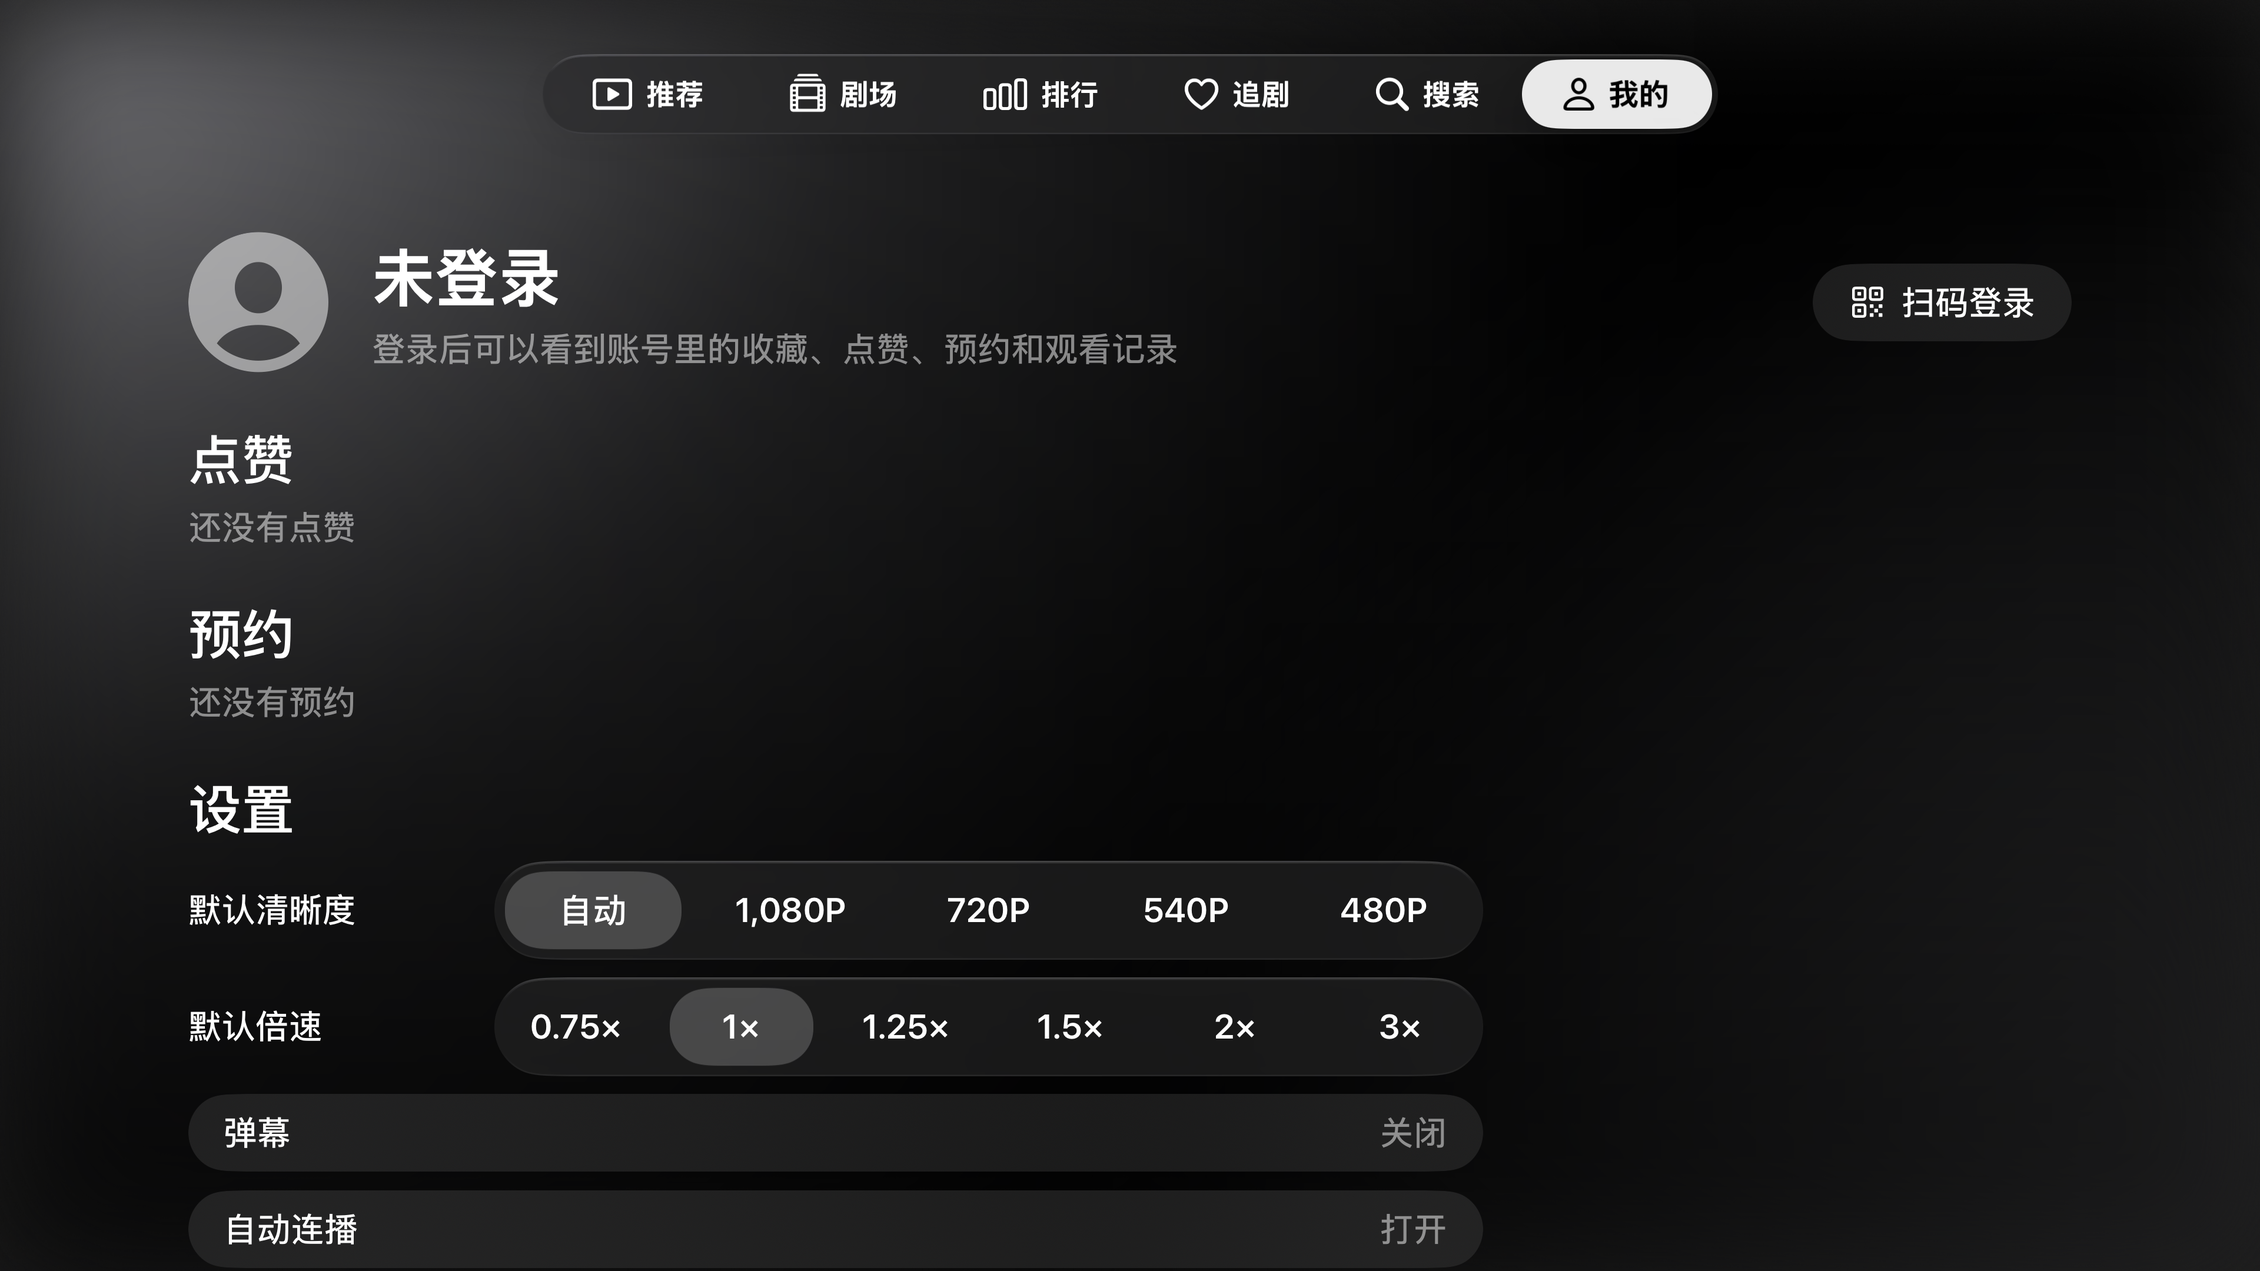
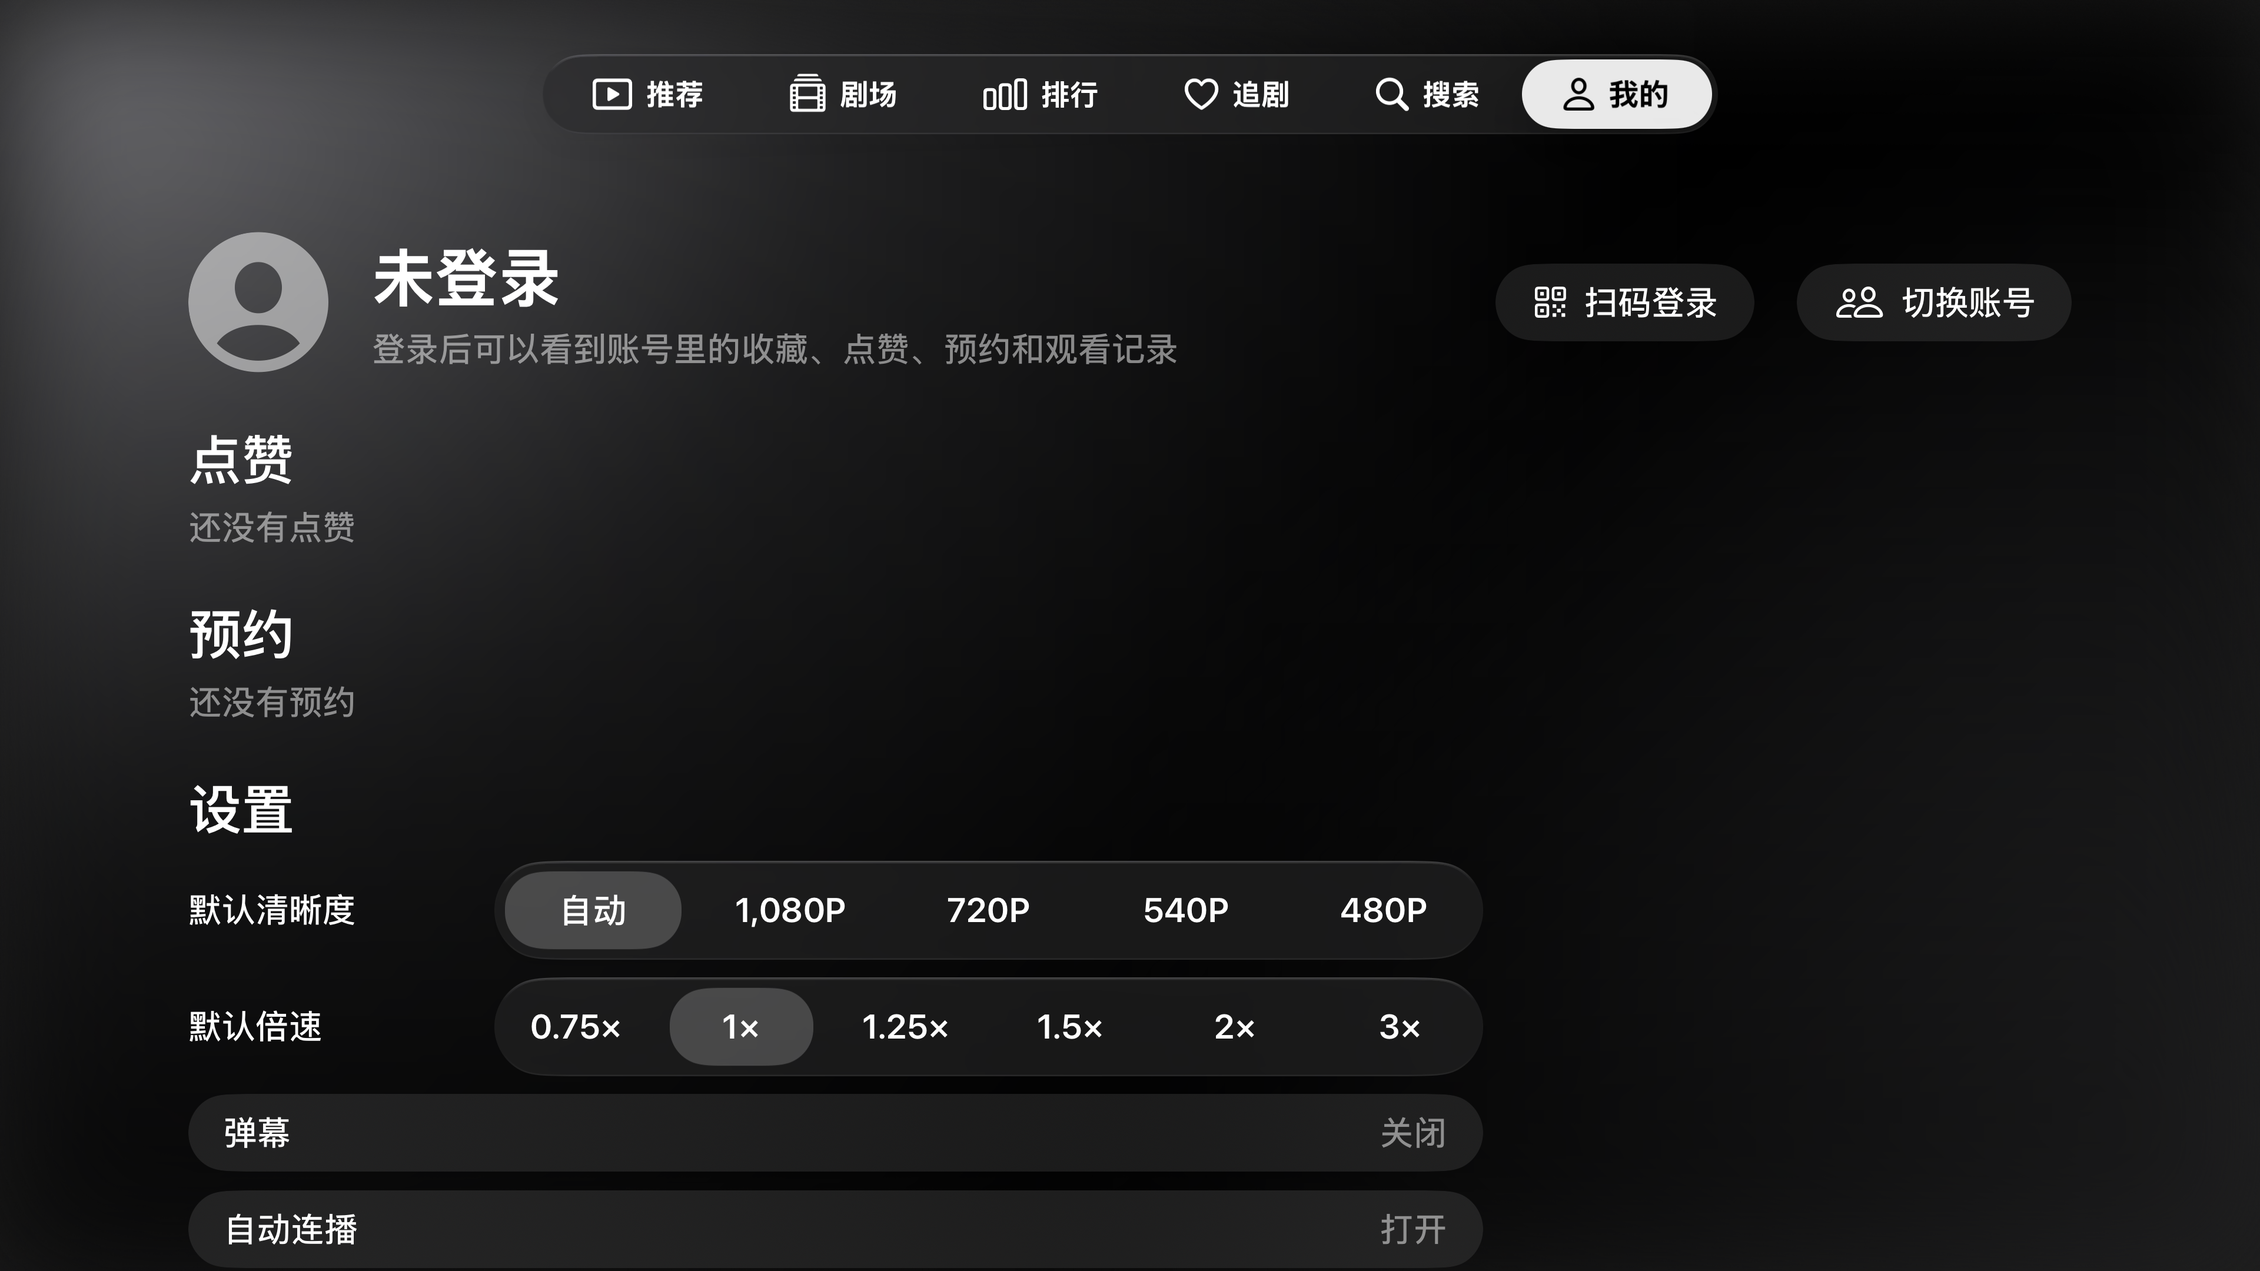
tvOS: account choice at launch and 切换账号
Andy asked for switching accounts on the TV, with a choice when the app opens.

- 选择账号 (AccountPickerPage): the accounts saved on this Apple TV (the shared AccountRoster) as
  a row of round pictures with names, like the system's user picker: the focused one grows, the
  most recently used takes the focus, the current one is marked. 添加账号 opens the QR sign-in
  (a sign-in joins the roster as current and goes on to 推荐); 不登录使用 carries on signed out
  (the saved accounts stay); a long press removes an account from this Apple TV only. Choosing one
  switches through AccountModel's sign-in steps (AccountRoster.switchTo) and goes to 推荐, which
  starts playing. Shown at launch when accounts are saved; with none the app goes straight to
  推荐. A saved login no longer there opens the QR sign-in.
- 我的: 切换账号 on the account card and in the settings brings the picker back.
- The roster's entry follows the account's picture and name once they are read.
- -HongguoRoute accounts opens the picker; sample runs fill it with three made-up accounts in
  memory (no login, no request); other sample runs start with an empty roster.
- 推荐 does not play under the picker or the sign-in page.

Checks: build-sim BUILD SUCCEEDED; xcodebuild test 34 passed (new: the most recent account has the
focus and choosing one goes to 推荐; 不登录使用; 添加账号 opens the sign-in and Back returns).
Screenshots: tvos/docs/screenshots/tv-c-accounts.png, tv-c-me.png.
[…]

Changed region(s): [[0.6562, 0.1861, 0.9062, 0.2792]]

diff --git a/tvos/App/Sources/Pages/AccountPickerPage.swift b/tvos/App/Sources/Pages/AccountPickerPage.swift
@@ -1,0 +1,127 @@
+import HongguoCore
+import HongguoModels
+import SwiftUI
+
+/// 选择账号: the accounts signed in on this Apple TV in a row of round pictures with their names,
+/// like the system's own user picker (the focused one grows); the most recently used takes the
+/// focus. 添加账号 opens the QR sign-in, 不登录使用 carries on signed out. Choosing one switches
+/// the shared account (AccountRoster) and goes to 推荐. A long press removes an account from this
+/// Apple TV only.
+struct AccountPickerPage: View {
+    @Environment(TVAppModel.self) private var app
+    @FocusState private var focused: String?
+    @State private var switching: String?
+
+    private static let addId = "__add__"
+
+    var body: some View {
+        ZStack {
+            AmbientBackground(tint: Theme.accent.opacity(0.5))
+            VStack(spacing: 70) {
+                Text("选择账号").font(.title.weight(.bold))
+                HStack(spacing: 70) {
+                    ForEach(app.roster.entries) { entry in
+                        Button { choose(entry) } label: {
+                            AvatarLabel(name: entry.nickname, avatar: entry.avatar, isCurrent: entry.id == app.roster.currentId,
+                                        isBusy: switching == entry.id)
+                        }
+                        .buttonStyle(AvatarButtonStyle())
+                        .focused($focused, equals: entry.id)
+                        .contextMenu {
+                            Button("从这台 Apple TV 移除", systemImage: "person.crop.circle.badge.minus", role: .destructive) {
+                                Task { await app.roster.remove(entry, account: app.account) }
+                            }
+                        }
+                    }
+                    Button { app.showsLogin = true } label: {
+                        AvatarLabel(name: "添加账号", systemImage: "plus")
+                    }
+                    .buttonStyle(AvatarButtonStyle())
+                    .focused($focused, equals: Self.addId)
+                }
+                .focusSection()
+                // A full-width section, so down from any picture reaches it.
+                HStack {
+                    Button("不登录使用") {
+                        Task {
+                            await app.roster.continueSignedOut(account: app.account)
+                            app.finishAccountChoice()
+                        }
+                    }
+                }
+                .frame(maxWidth: .infinity)
+                .focusSection()
+            }
+        }
+        .background(Color.black)
+        .onAppear {
+            // The account used last is the one most people want.
+            DispatchQueue.main.asyncAfter(deadline: .now() + 0.2) { focused = app.roster.mostRecent?.id ?? Self.addId }
+        }
+        .onExitCommand { if app.account.isSignedIn || app.roster.currentId == nil { app.finishAccountChoice() } }
+    }
+
+    private func choose(_ entry: AccountRoster.Entry) {
+        guard switching == nil else { return }
+        if entry.id == app.roster.currentId, app.account.profile?.id == entry.id {
+            app.finishAccountChoice()
+            return
+        }
+        switching = entry.id
+        Task {
+            let ok = await app.roster.switchTo(entry, account: app.account)
+            switching = nil
+            if ok {
+                app.finishAccountChoice()
+            } else {
+                // Its login is gone: sign in again for it.
+                app.showsLogin = true
+            }
+        }
+    }
+}
+
+/// A round picture (or a symbol) with a name under it.
+private struct AvatarLabel: View {
+    var name: String
+    var avatar: String = ""
+    var systemImage: String?
+    var isCurrent = false
+    var isBusy = false
+    @Environment(\.isFocused) private var isFocused
+
+    var body: some View {
+        VStack(spacing: 26) {
+            ZStack {
+                Circle().fill(PlaceholderTint.color(for: name).gradient)
+                if let systemImage {
+                    Image(systemName: systemImage).font(.system(size: 80, weight: .medium)).foregroundStyle(.white)
+                } else if let url = URL(string: avatar), !avatar.isEmpty {
+                    AsyncImage(url: url) { $0.resizable().scaledToFill() } placeholder: { initial }
+                        .clipShape(Circle())
+                } else {
+                    initial
+                }
+                if isBusy { ProgressView().controlSize(.large) }
+            }
+            .frame(width: 220, height: 220)
+            .overlay { Circle().strokeBorder(.white.opacity(isFocused ? 0.9 : 0), lineWidth: 6) }
+            .shadow(color: .black.opacity(isFocused ? 0.5 : 0), radius: 20, y: 12)
+            Text(name).font(.headline).lineLimit(1).frame(maxWidth: 260)
+            Text(isCurrent ? "当前" : " ").font(.caption).foregroundStyle(.secondary)
+        }
+        .scaleEffect(isFocused ? 1.15 : 1)
+        .animation(.easeOut(duration: 0.2), value: isFocused)
+    }
+
+    private var initial: some View {
+        Text(String(name.prefix(1))).font(.system(size: 90, weight: .bold)).foregroundStyle(.white)
+    }
+}
+
+/// No platter: the picture itself grows when focused.
+private struct AvatarButtonStyle: ButtonStyle {
+    func makeBody(configuration: Configuration) -> some View {
+        configuration.label.opacity(configuration.isPressed ? 0.8 : 1)
+    }
+}

diff --git a/tvos/App/Sources/HongguoDramaTVApp.swift b/tvos/App/Sources/HongguoDramaTVApp.swift
@@ -43,6 +43,8 @@ final class TVAppModel: PlayerHost {
     let backend: any DramaBackend
     let account: AccountModel
     let library: LibraryModel
+    /// The accounts signed in on this Apple TV.
+    let roster: AccountRoster
     var player = PlayerEngine()
     var playerHandoff: PlayerHandoff?
     var selectedTab: LaunchOptions.Route
@@ -52,14 +54,28 @@ final class TVAppModel: PlayerHost {
     var playerTarget: PlayerTarget?
     /// 扫码登录, over the tabs.
     var showsLogin = false
+    /// 选择账号, over everything; shown at launch when accounts are saved on this Apple TV.
+    var showsAccountPicker = false
 
     init(launch: LaunchOptions) {
         self.launch = launch
         backend = launch.offlineFixtures ? FixtureBackend() : LiveBackend()
         account = AccountModel(mode: launch.arguments.accountMode)
         library = LibraryModel(offline: launch.offlineFixtures, account: account, backend: backend)
+        // Live: the saved accounts (an earlier single login becomes the first). Sample runs: an
+        // empty roster in memory, or made-up accounts with `-HongguoRoute accounts`.
+        if launch.offlineFixtures {
+            roster = launch.route == .accounts ? AccountRoster.samples()
+                : AccountRoster(defaults: UserDefaults(suiteName: "HongguoDrama.sampleRoster.\(UUID().uuidString)") ?? .standard,
+                                vault: MemoryVault(), current: MemoryVault.Current())
+        } else {
+            roster = AccountRoster()
+            roster.migrateIfNeeded()
+        }
+        // Accounts saved: choose one first; none: straight to 推荐.
+        showsAccountPicker = launch.route == .accounts || (!roster.entries.isEmpty && launch.route == .recommend)
         // The series page and player routes open over 推荐.
-        selectedTab = [.detail, .player, .playerControls, .playerEpisodes].contains(launch.route) ? .recommend : launch.route
+        selectedTab = [.detail, .player, .playerControls, .playerEpisodes, .accounts].contains(launch.route) ? .recommend : launch.route
         showsLogin = launch.arguments.showsLogin
         player.isMuted = launch.muted
         // A muted run (automated tests on a Mac) must not claim the audio output at all.
@@ -105,6 +121,19 @@ final class TVAppModel: PlayerHost {
     }
 
     func closePlayer() { playerTarget = nil }
+
+    /// An account was chosen (or 不登录使用): on to 推荐, which starts playing.
+    func finishAccountChoice() {
+        showsAccountPicker = false
+        selectedTab = .recommend
+    }
+
+    /// After a QR sign-in: the account joins the roster as the current one.
+    func signedIn() {
+        roster.rememberCurrent(avatar: account.avatar)
+        showsLogin = false
+        if showsAccountPicker { finishAccountChoice() }
+    }
 }
 
 /// The shell: the system's top tab bar, nothing drawn by hand. The series page and the player
@@ -137,12 +166,8 @@ struct RootView: View {
                     MePage()
                 }
             }
-            .disabled(app.detailTarget != nil || app.playerTarget != nil || app.showsLogin)
+            .disabled(app.detailTarget != nil || app.playerTarget != nil || app.showsLogin || app.showsAccountPicker)
 
-            if app.showsLogin {
-                LoginPage()
-                    .transition(.opacity)
-            }
 
             if let series = app.detailTarget {
                 DetailPage(series: series)
@@ -155,9 +180,23 @@ struct RootView: View {
                     .id(target.id)
                     .transition(.opacity)
             }
+            if app.showsAccountPicker {
+                AccountPickerPage()
+                    .disabled(app.showsLogin)
+                    .transition(.opacity)
+            }
+            if app.showsLogin {
+                LoginPage()
+                    .transition(.opacity)
+            }
         }
         .animation(.easeInOut(duration: 0.25), value: app.detailTarget?.seriesId)
         .animation(.easeInOut(duration: 0.25), value: app.playerTarget?.id)
+        .animation(.easeInOut(duration: 0.25), value: app.showsAccountPicker)
+        .onChange(of: app.account.avatar) { _, avatar in
+            // The picture and name arrive after a sign-in or switch: keep the roster's entry current.
+            if let profile = app.account.profile { app.roster.update(id: profile.id, nickname: profile.nickname, avatar: avatar) }
+        }
         .onChange(of: scenePhase) { _, phase in
             // As in the iOS app: back in front, warm the App source up and sync the account (at
             // most once a minute, then every 3 minutes); in the background, stop the loop.

diff --git a/tvos/UITests/AccountPickerTests.swift b/tvos/UITests/AccountPickerTests.swift
@@ -1,0 +1,54 @@
+import XCTest
+
+/// 选择账号 with the three made-up sample accounts: no login behind them and no request.
+final class AccountPickerTests: XCTestCase {
+    private func launch() -> XCUIApplication {
+        let app = XCUIApplication()
+        app.launchArguments = ["-HongguoOfflineFixtures", "YES", "-HongguoMuted", "YES", "-HongguoRoute", "accounts"]
+        app.launch()
+        return app
+    }
+
+    private func recommendButton(_ app: XCUIApplication) -> XCUIElement {
+        app.buttons.matching(NSPredicate(format: "label BEGINSWITH '观看完整剧集'")).firstMatch
+    }
+
+    func testMostRecentHasFocusAndChoosingGoesToRecommend() {
+        let app = launch()
+        XCTAssertTrue(app.staticTexts["选择账号"].waitForExistence(timeout: 10))
+        for name in ["小红果", "追剧达人", "家里的电视", "添加账号"] {
+            XCTAssertTrue(app.staticTexts[name].exists, "missing \(name)")
+        }
+        let first = app.buttons.matching(NSPredicate(format: "label CONTAINS '小红果'")).firstMatch
+        expectation(for: NSPredicate(format: "hasFocus == true"), evaluatedWith: first)
+        waitForExpectations(timeout: 5) // the account used last
+        XCUIRemote.shared.press(.right)
+        XCUIRemote.shared.press(.select) // 追剧达人
+        XCTAssertTrue(recommendButton(app).waitForExistence(timeout: 10), "on to 推荐")
+        XCTAssertFalse(app.staticTexts["选择账号"].exists)
+    }
+
+    func testContinueSignedOut() {
+        let app = launch()
+        XCTAssertTrue(app.staticTexts["选择账号"].waitForExistence(timeout: 10))
+        let signedOut = app.buttons["不登录使用"]
+        XCUIRemote.shared.press(.down)
+        expectation(for: NSPredicate(format: "hasFocus == true"), evaluatedWith: signedOut)
+        waitForExpectations(timeout: 5)
+        XCUIRemote.shared.press(.select)
+        XCTAssertTrue(recommendButton(app).waitForExistence(timeout: 10))
+    }
+
+    func testAddAccountOpensLogin() {
+        let app = launch()
+        XCTAssertTrue(app.staticTexts["选择账号"].waitForExistence(timeout: 10))
+        let add = app.buttons.matching(NSPredicate(format: "label CONTAINS '添加账号'")).firstMatch
+        for _ in 0..<3 { XCUIRemote.shared.press(.right) }
+        expectation(for: NSPredicate(format: "hasFocus == true"), evaluatedWith: add)
+        waitForExpectations(timeout: 5)
+        XCUIRemote.shared.press(.select)
+        XCTAssertTrue(app.staticTexts["登录红果账号"].waitForExistence(timeout: 5))
+        XCUIRemote.shared.press(.menu)
+        XCTAssertTrue(app.staticTexts["选择账号"].waitForExistence(timeout: 5), "back to the picker")
+    }
+}

diff --git a/tvos/App/Sources/Pages/MePage.swift b/tvos/App/Sources/Pages/MePage.swift
@@ -72,6 +72,7 @@ struct MePage: View {
             } else {
                 Button("扫码登录", systemImage: "qrcode") { app.showsLogin = true }
             }
+            Button("切换账号", systemImage: "person.2") { app.showsAccountPicker = true }
         }
         .focusSection()
     }
@@ -142,6 +143,7 @@ struct MePage: View {
             Toggle("弹幕", isOn: $library.settings.danmaku.enabled)
             Toggle("自动连播", isOn: $library.settings.autoNext)
             Toggle("云端观看记录", isOn: $library.settings.cloudHistorySync)
+            Button("切换账号", systemImage: "person.2") { app.showsAccountPicker = true }
             Text("数据来源：\(app.backend.isOffline ? "内置示例（离线）" : "红果官方")").font(.caption).foregroundStyle(.secondary)
         }
         .frame(maxWidth: 1100, alignment: .leading)

diff --git a/tvos/App/Sources/Pages/RecommendPage.swift b/tvos/App/Sources/Pages/RecommendPage.swift
@@ -35,7 +35,8 @@ private struct RecommendContent: View {
     @FocusState private var mainFocused: Bool
 
     private var visible: Bool {
-        app.selectedTab == .recommend && app.playerTarget == nil && app.detailTarget == nil && scenePhase == .active
+        app.selectedTab == .recommend && app.playerTarget == nil && app.detailTarget == nil && !app.showsAccountPicker
+            && !app.showsLogin && scenePhase == .active
     }
 
     var body: some View {

diff --git a/tvos/App/Sources/Pages/LoginPage.swift b/tvos/App/Sources/Pages/LoginPage.swift
@@ -37,7 +37,7 @@ struct LoginPage: View {
         .onDisappear { login?.abandon() }
         .task(id: "\(login?.round ?? -1)|\(scenePhase == .active)") {
             guard app.account.canSignIn, scenePhase == .active, let login else { return }
-            await login.run { app.showsLogin = false }
+            await login.run { app.signedIn() }
         }
     }
 

diff --git a/tvos/App/Sources/LaunchOptions.swift b/tvos/App/Sources/LaunchOptions.swift
@@ -13,6 +13,8 @@ struct LaunchOptions: Sendable {
         case recommend, theater, ranking, following, search, me
         case detail, player
         case playerControls = "player-controls", playerEpisodes = "player-episodes"
+        /// 选择账号 (with made-up accounts in sample runs).
+        case accounts
     }
 
     var arguments: LaunchArguments
